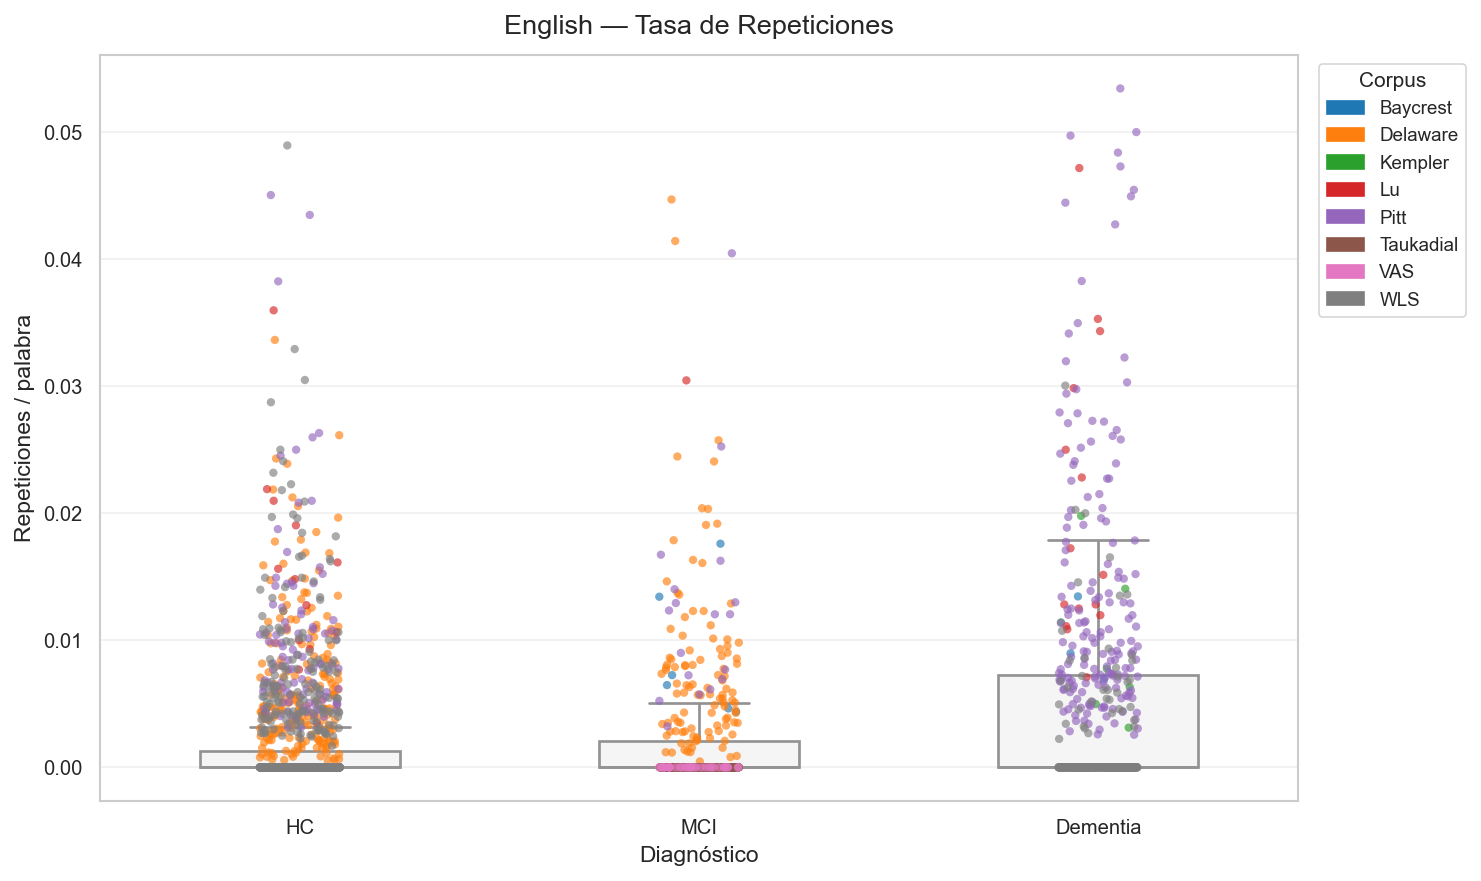
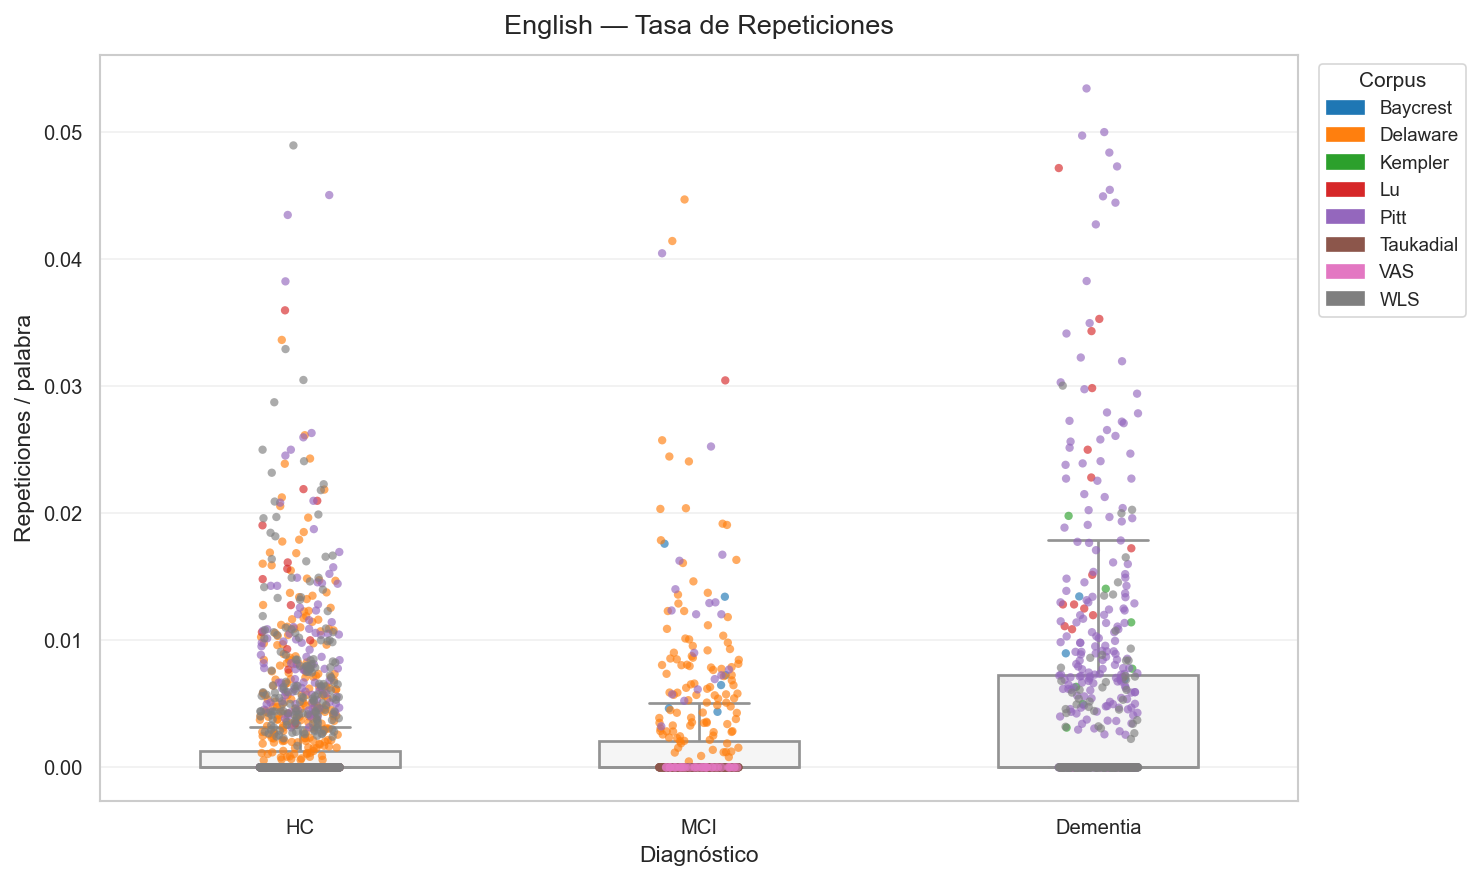
arreglo fase 2

diff --git a/Markers_analysis/count_features.py b/Markers_analysis/count_features.py
@@ -2,10 +2,8 @@
 """
 Unified CHAT marker analysis across all ConvoCognition corpora.
 
-Generates 6 figures saved to markers_analysis/figs/:
-  - español_pause_rate.png
+Generates 4 figures saved to markers_analysis/figs/:
   - español_rep_rate.png
-  - español_ref_rate.png
   - english_pause_rate.png
   - english_rep_rate.png
   - english_ref_rate.png
@@ -16,6 +14,7 @@ corpus-level effects are immediately visible (e.g. PerLA has no pauses,
 Taukadial has no CHAT markers at all since it was auto-transcribed).
 """
 
+import argparse
 import json
 import re
 from pathlib import Path
@@ -36,25 +35,8 @@ RE_PAUSE_ALL = re.compile(r"\(\s*\.+\s*\)|\(\s*\d+(?:\.\d+)?\s*\)")
 
 # ── Dataset configuration ──────────────────────────────────────────────────────
 _HPC_BASE   = Path("/mnt/beegfs/groups/irgroup/sara_tfg/jsonl/results_cha_collection")
-_LOCAL_BASE = Path("/Users/saracastrolopez/Desktop/clases/tfg/results_cha_collection")
+_LOCAL_BASE = Path.cwd() / "results_cha_collection"
 BASE = _HPC_BASE if _HPC_BASE.exists() else _LOCAL_BASE
-
-SPANISH_DATASETS: dict[str, "Path | list[Path]"] = {
-    "Ivanova": BASE / "Ivanova.jsonl",
-    "PerLA":   BASE / "PerLA.jsonl",
-}
-
-ENGLISH_DATASETS: dict[str, "Path | list[Path]"] = {
-    "Baycrest":  BASE / "Baycrest.jsonl",
-    "Delaware":  BASE / "Delaware.jsonl",
-    "Kempler":   BASE / "Kempler.jsonl",
-    "Lu":        BASE / "Lu.jsonl",
-    "Pitt":      BASE / "Pitt.jsonl",
-    "Taukadial": [BASE / "taukadial_English_train.jsonl",
-                  BASE / "taukadial_English_test.jsonl"],
-    "VAS":       BASE / "VAS.jsonl",
-    "WLS":       BASE / "WLS.jsonl",
-}
 
 TEXT_FIELD    = "Text_interviewer_participant"
 LABEL_FIELD   = "Diagnosis"
@@ -86,6 +68,11 @@ FEATURES: dict[str, tuple[str, str]] = {
     "pause_rate": ("Tasa de Pausas",          "Pausas / palabra"),
     "rep_rate":   ("Tasa de Repeticiones",    "Repeticiones / palabra"),
     "ref_rate":   ("Tasa de Reformulaciones", "Reformulaciones / palabra"),
+}
+
+FEATURES_BY_LANGUAGE = {
+    "Español": ("rep_rate",),
+    "English": ("pause_rate", "rep_rate", "ref_rate"),
 }
 
 # ── Feature extraction ─────────────────────────────────────────────────────────
@@ -234,15 +221,21 @@ def plot_feature(
     print(f"  Guardado: {out_path.name}")
 
 
-def generate_plots(df: pd.DataFrame, lang_label: str, datasets: dict) -> None:
+def generate_plots(
+    df: pd.DataFrame,
+    lang_label: str,
+    datasets: dict,
+    figs_dir: Path,
+) -> None:
     dataset_names = list(datasets.keys())
     colors = sns.color_palette("tab10", n_colors=len(dataset_names))
     palette = dict(zip(dataset_names, colors))
 
     lang_slug = lang_label.lower().replace(" ", "_")
 
-    for feature, (feature_label, ylabel) in FEATURES.items():
-        out_path = FIGS_DIR / f"{lang_slug}_{feature}.png"
+    for feature in FEATURES_BY_LANGUAGE[lang_label]:
+        feature_label, ylabel = FEATURES[feature]
+        out_path = figs_dir / f"{lang_slug}_{feature}.png"
         plot_feature(df, feature, feature_label, ylabel, lang_label, out_path, palette)
 
 
@@ -257,26 +250,68 @@ def print_stats(df: pd.DataFrame, lang_label: str) -> None:
     print(df.groupby(["dataset", "diagnosis"], observed=True).size().to_string())
 
 
+def parse_args() -> argparse.Namespace:
+    parser = argparse.ArgumentParser(
+        description="Genera diagramas de caja de las marcas CHAT por diagnóstico."
+    )
+    parser.add_argument(
+        "--data-root",
+        type=Path,
+        default=BASE,
+        help="Carpeta con los JSONL originales de cada corpus.",
+    )
+    parser.add_argument(
+        "--output-dir",
+        type=Path,
+        default=FIGS_DIR,
+        help="Carpeta de salida para las cuatro figuras.",
+    )
+    return parser.parse_args()
+
+
+def build_dataset_paths(data_root: Path) -> tuple[dict, dict]:
+    spanish = {
+        "Ivanova": data_root / "Ivanova.jsonl",
+        "PerLA": data_root / "PerLA.jsonl",
+    }
+    english = {
+        "Baycrest": data_root / "Baycrest.jsonl",
+        "Delaware": data_root / "Delaware.jsonl",
+        "Kempler": data_root / "Kempler.jsonl",
+        "Lu": data_root / "Lu.jsonl",
+        "Pitt": data_root / "Pitt.jsonl",
+        "Taukadial": [
+            data_root / "taukadial_English_train.jsonl",
+            data_root / "taukadial_English_test.jsonl",
+        ],
+        "VAS": data_root / "VAS.jsonl",
+        "WLS": data_root / "WLS.jsonl",
+    }
+    return spanish, english
+
+
 # ── Main ───────────────────────────────────────────────────────────────────────
 if __name__ == "__main__":
-    FIGS_DIR.mkdir(exist_ok=True)
+    args = parse_args()
+    args.output_dir.mkdir(parents=True, exist_ok=True)
     sns.set_style("whitegrid")
     sns.set_context("paper", font_scale=1.1)
+    spanish_datasets, english_datasets = build_dataset_paths(args.data_root)
 
     print("=== Español ===")
-    df_spa = build_dataframe(SPANISH_DATASETS)
+    df_spa = build_dataframe(spanish_datasets)
     if not df_spa.empty:
         print_stats(df_spa, "Español")
-        generate_plots(df_spa, "Español", SPANISH_DATASETS)
+        generate_plots(df_spa, "Español", spanish_datasets, args.output_dir)
     else:
         print("  [ERROR] No se cargaron datos en español.")
 
     print("\n=== English ===")
-    df_en = build_dataframe(ENGLISH_DATASETS)
+    df_en = build_dataframe(english_datasets)
     if not df_en.empty:
         print_stats(df_en, "English")
-        generate_plots(df_en, "English", ENGLISH_DATASETS)
+        generate_plots(df_en, "English", english_datasets, args.output_dir)
     else:
         print("  [ERROR] No data loaded for English.")
 
-    print("\nDone. Figures saved to:", FIGS_DIR)
+    print("\nDone. Figures saved to:", args.output_dir)

diff --git a/Preprocessing_text/preprocess_language_features.py b/Preprocessing_text/preprocess_language_features.py
@@ -17,14 +17,6 @@ TEXT_FIELD = "Text_interviewer_participant"
 # Campos a eliminar (si existen)
 DROP_FIELDS = ["Text_participant", "Text_interviewer"]
 
-# Corpus excluidos del análisis de marcadores por carecer de anotación CHAT válida:
-# - TAUKADIAL: transcripción automática (ASR), 0 marcadores en 506 transcripciones
-# - PerLA: solo clase Dementia, sin pausas ni reformulaciones anotadas
-EXCLUDE_DATASETS: dict[str, set[str]] = {
-    "en":  {"TAUKADIAL"},
-    "spa": {"PerLA"},
-}
-
 # Si un marcador NO está activo en el modo elegido:
 # - True: lo elimina (recomendado para aislar señal)
 # - False: lo deja como estaba
@@ -102,25 +94,19 @@ def write_jsonl(path: str, rows: Iterable[Dict[str, Any]]) -> None:
             f.write(json.dumps(obj, ensure_ascii=False) + "\n")
 
 
-def preprocess_file(input_path: str, output_path: str, mode: str, language: str) -> None:
-    excluded = EXCLUDE_DATASETS.get(language, set())
-
+def preprocess_file(
+    input_path: str,
+    output_path: str,
+    mode: str,
+) -> None:
     def _rows():
-        skipped = 0
         for obj in iter_jsonl(input_path):
-            if obj.get("Dataset") in excluded:
-                skipped += 1
-                continue
-
             obj[TEXT_FIELD] = preprocess_text(obj.get(TEXT_FIELD, ""), mode=mode)
 
             for k in DROP_FIELDS:
                 obj.pop(k, None)
 
             yield obj
-
-        if skipped:
-            print(f"  Excluidos por corpus sin anotación CHAT: {skipped} registros ({excluded})")
 
     write_jsonl(output_path, _rows())
 
@@ -184,10 +170,11 @@ def main():
     print("Overwriting field:", TEXT_FIELD)
     print("Dropping fields:", DROP_FIELDS)
     print("Drop inactive markers:", DROP_INACTIVE_MARKERS)
+    print("Corpus: todos los disponibles, incluidos Taukadial y PerLA")
     print("Tokens:", PAUSE_TOKEN, REP_TOKEN, REF_TOKEN)
 
-    preprocess_file(train_in, train_out, mode=mode, language=input_prefix)
-    preprocess_file(test_in, test_out, mode=mode, language=input_prefix)
+    preprocess_file(train_in, train_out, mode=mode)
+    preprocess_file(test_in, test_out, mode=mode)
 
     print("Done")
 

diff --git a/Experiments/BERT_tokenizer.py b/Experiments/BERT_tokenizer.py
@@ -107,7 +107,10 @@ class ClassificationDataset(Dataset):
 def load_and_prepare_df(path, text_col, label_col, drop_label_value=None):
     df = pd.read_json(path, lines=True)
 
-    df = df[[label_col, text_col]].copy()
+    selected_columns = [label_col, text_col]
+    if "Dataset" in df.columns:
+        selected_columns.append("Dataset")
+    df = df[selected_columns].copy()
 
     if drop_label_value is not None:
         before = len(df)
@@ -119,6 +122,13 @@ def load_and_prepare_df(path, text_col, label_col, drop_label_value=None):
     df[text_col] = df[text_col].astype(str)
 
     return df
+
+
+def format_value_counts(df: pd.DataFrame, column: str) -> str:
+    if column not in df.columns:
+        return ""
+    counts = df[column].value_counts(dropna=False)
+    return " | ".join(f"{name}:{int(count)}" for name, count in counts.items())
 
 def encode_labels_fit(df, label_col):
     """
@@ -501,6 +511,8 @@ def main():
         "Drop_label_value": str(DROP_LABEL_VALUE),
         "Train_rows": len(train_df),
         "Test_rows": len(test_df),
+        "Train_datasets": format_value_counts(train_df, "Dataset"),
+        "Test_datasets": format_value_counts(test_df, "Dataset"),
         "Train_trunc_pct": trunc_pct,
         "Train_path": TRAIN_PATH,
         "Test_path": TEST_PATH,

diff --git a/scripts/datasets_creation/README.md b/scripts/datasets_creation/README.md
@@ -30,9 +30,10 @@ Orden recomendado:
 
 5. `03_preprocess_marker_features.sh`
    - Genera variantes con marcas CHAT convertidas a tokens especiales.
+   - Incluye todos los corpus globales, también Taukadial y PerLA.
    - Salidas en `jsonl/markers_collections/` con nombres esperados por `experiments/BERT_tokenizer.py`:
      `train_{en|spa}_e5_markers_{none|pause|rep|ref|all}.jsonl` y equivalentes de test.
-   - La variante `none` usa los mismos corpus filtrados que las variantes con tokens,
+   - La variante `none` usa los mismos corpus que las variantes con tokens,
      pero elimina las tres marcas CHAT sin añadir tokens especiales. Es el baseline
      controlado de la Fase 2.
 
